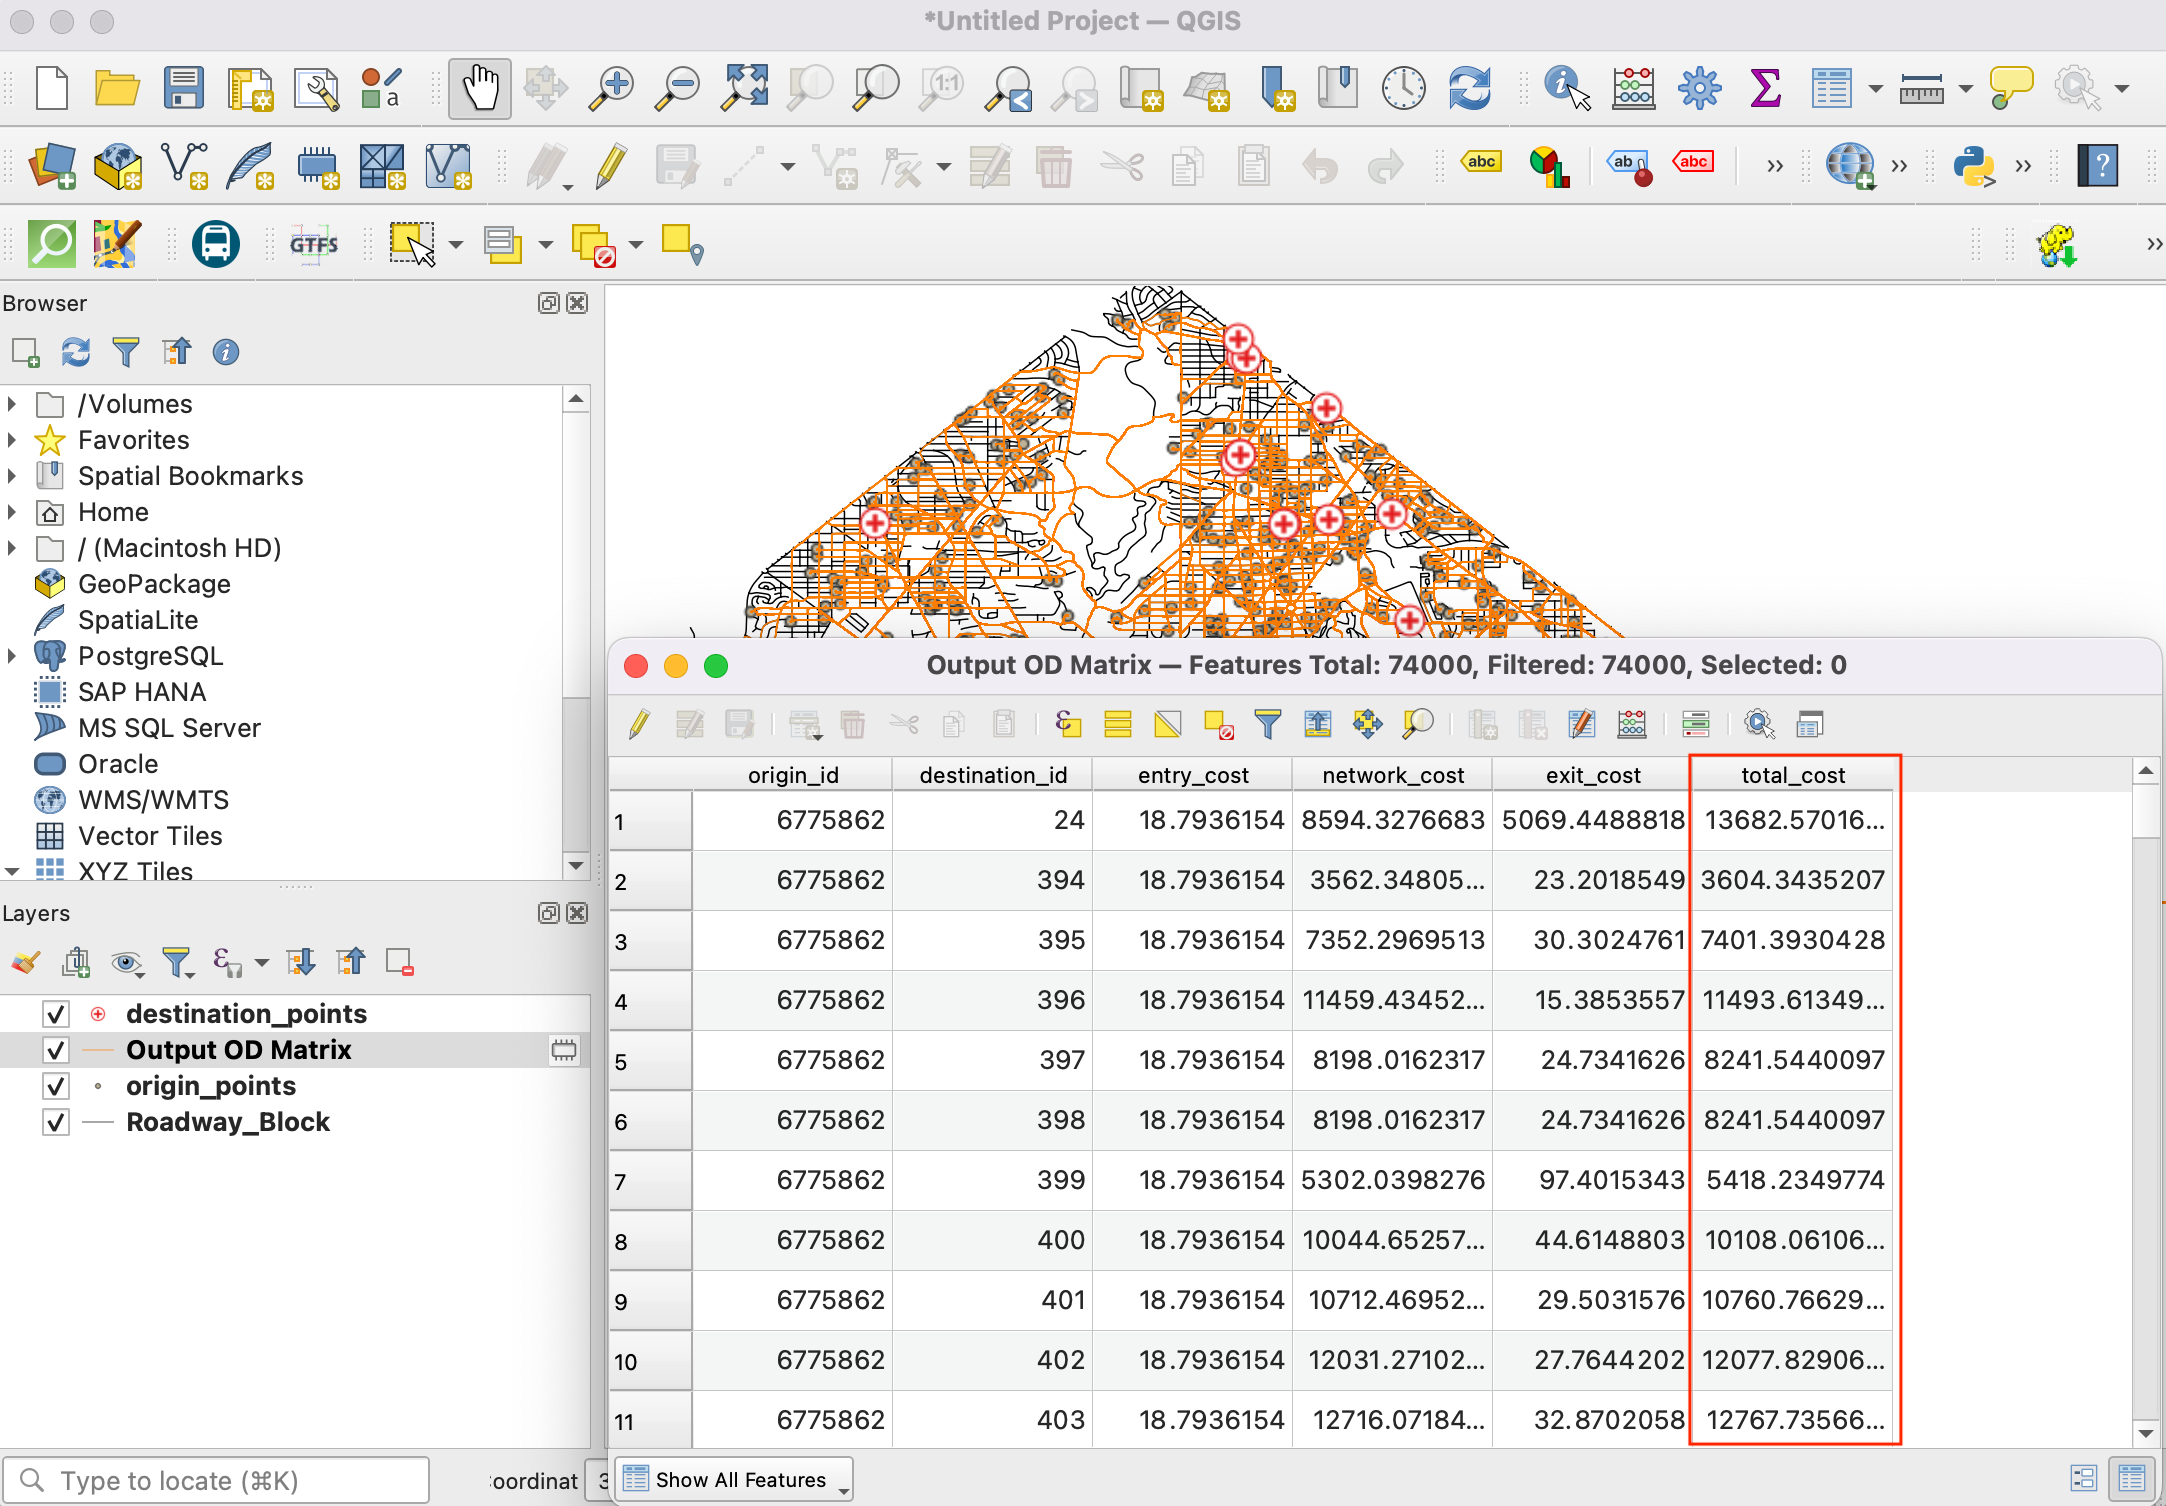
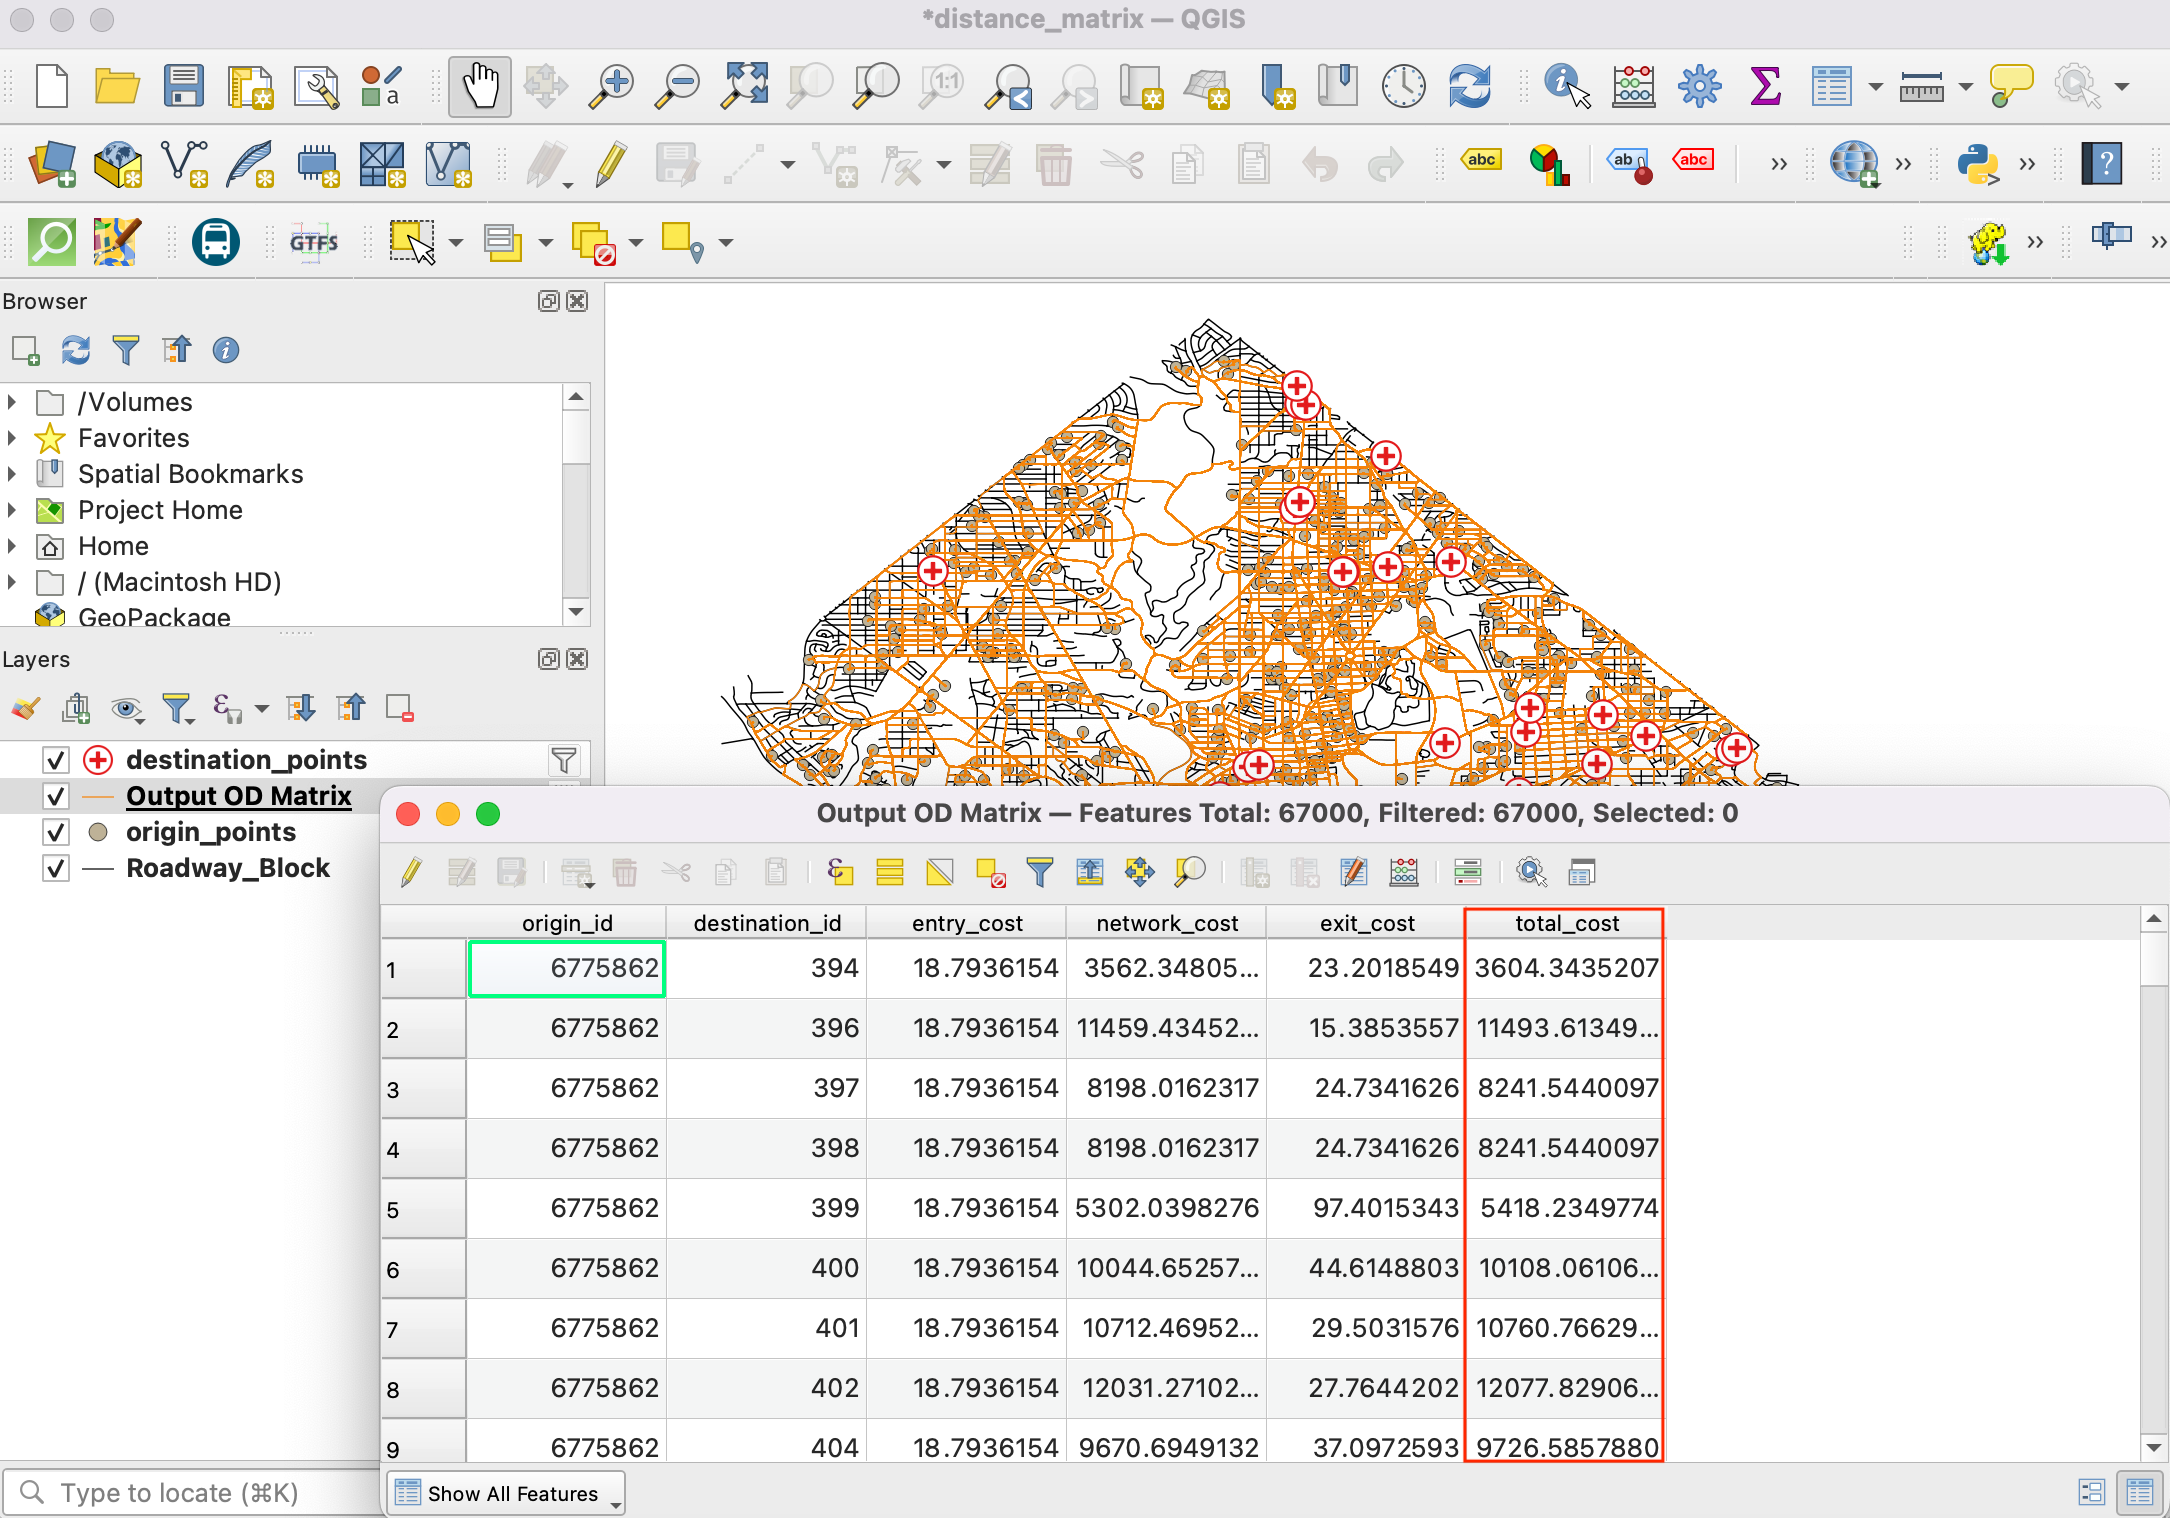
varified and updated

diff --git a/source/docs/3/origin_destination_matrix.rst b/source/docs/3/origin_destination_matrix.rst
@@ -107,7 +107,7 @@ Procedure
   .. image:: /static/3/origin_destination_matrix/images/10.png
     :align: center
   
-11. A new table layer called ``Output OD Matrix`` will be added to the :guilabel:`Layers` panel. Right-click and select :guilabel:`Open Attributes Table`. You will see that the table contains *13000* rows. We had 74 origin points and 1000 destination points - so the output contains *74x1000 = 74000* pairs of origins and destination. The ``total_cost`` column contains distance in meters between each origin point to every destination point. 
+11. A new table layer called ``Output OD Matrix`` will be added to the :guilabel:`Layers` panel. Right-click and select :guilabel:`Open Attributes Table`. You will see that the table contains *13000* rows. We had 67 origin points and 1000 destination points - so the output contains *67x1000 = 67000* pairs of origins and destination. The ``total_cost`` column contains distance in meters between each origin point to every destination point. 
 
   .. image:: /static/3/origin_destination_matrix/images/11.png
     :align: center
